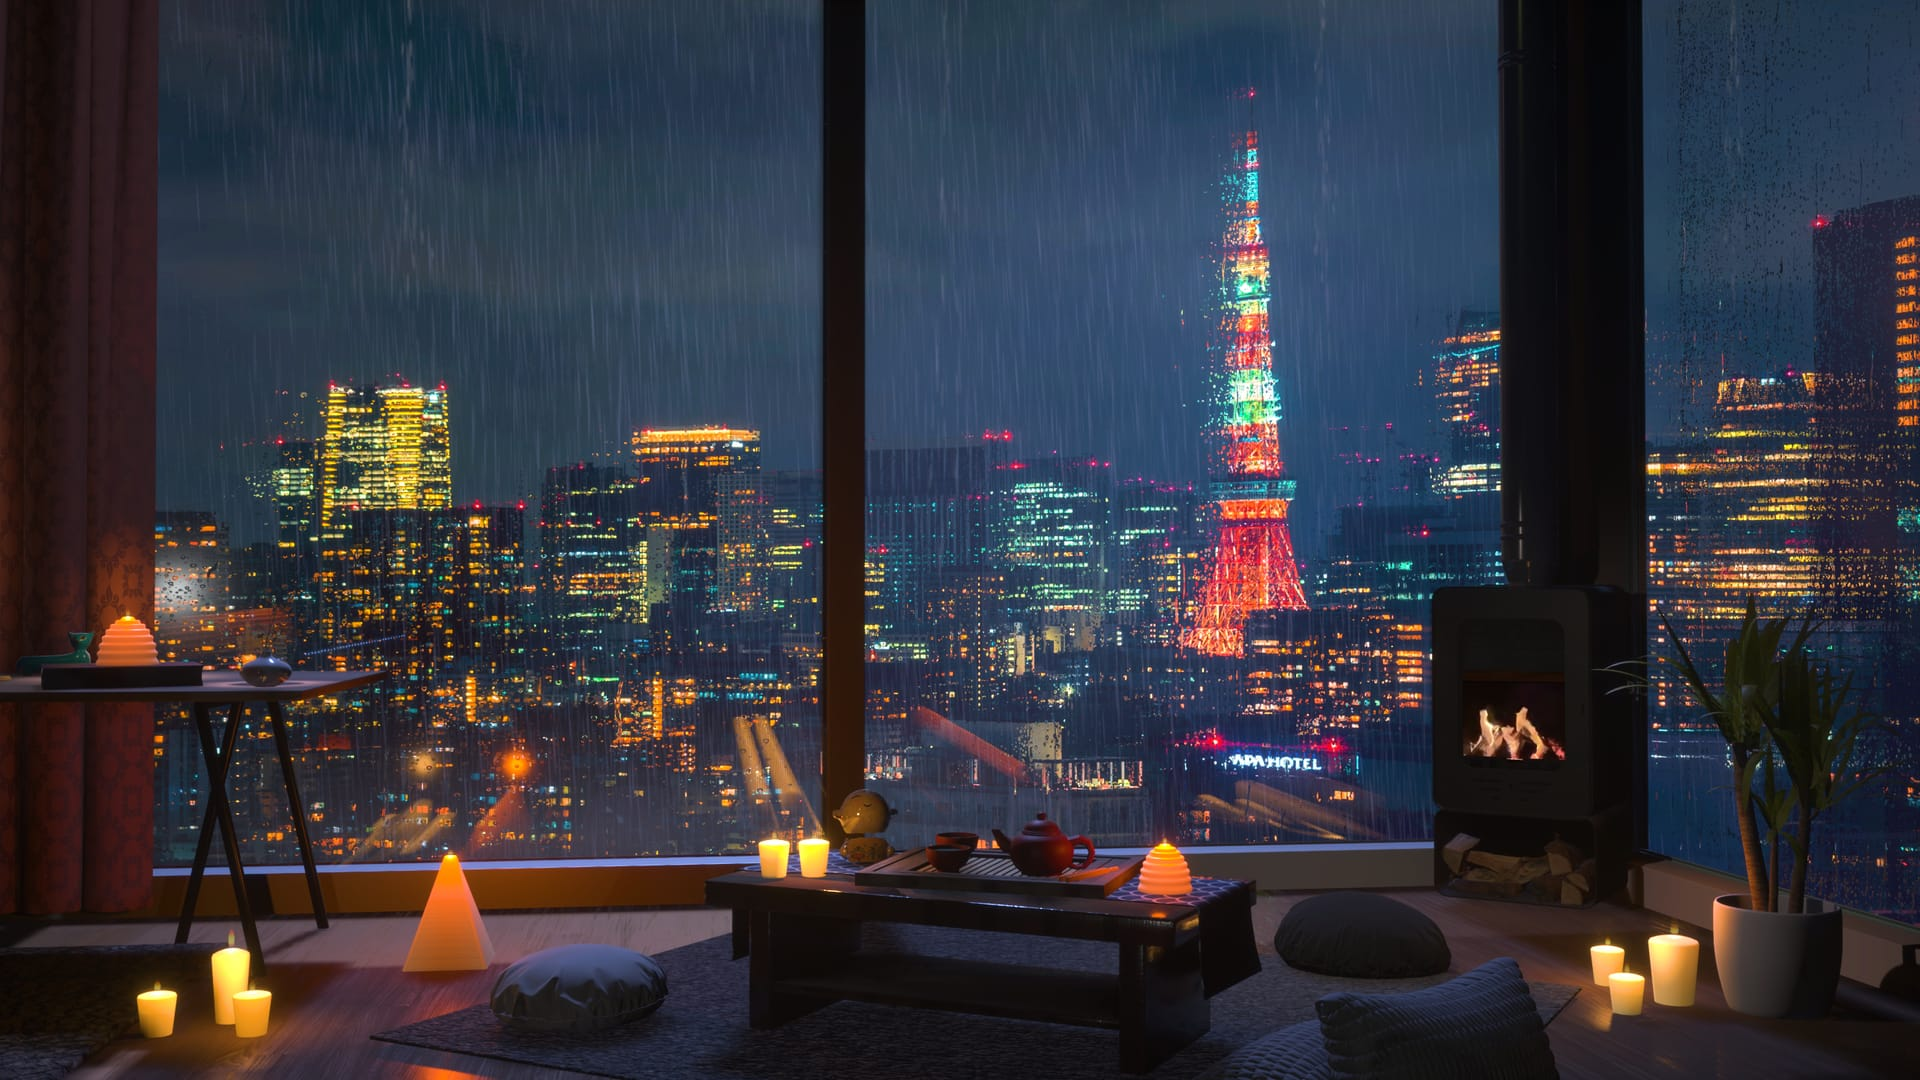
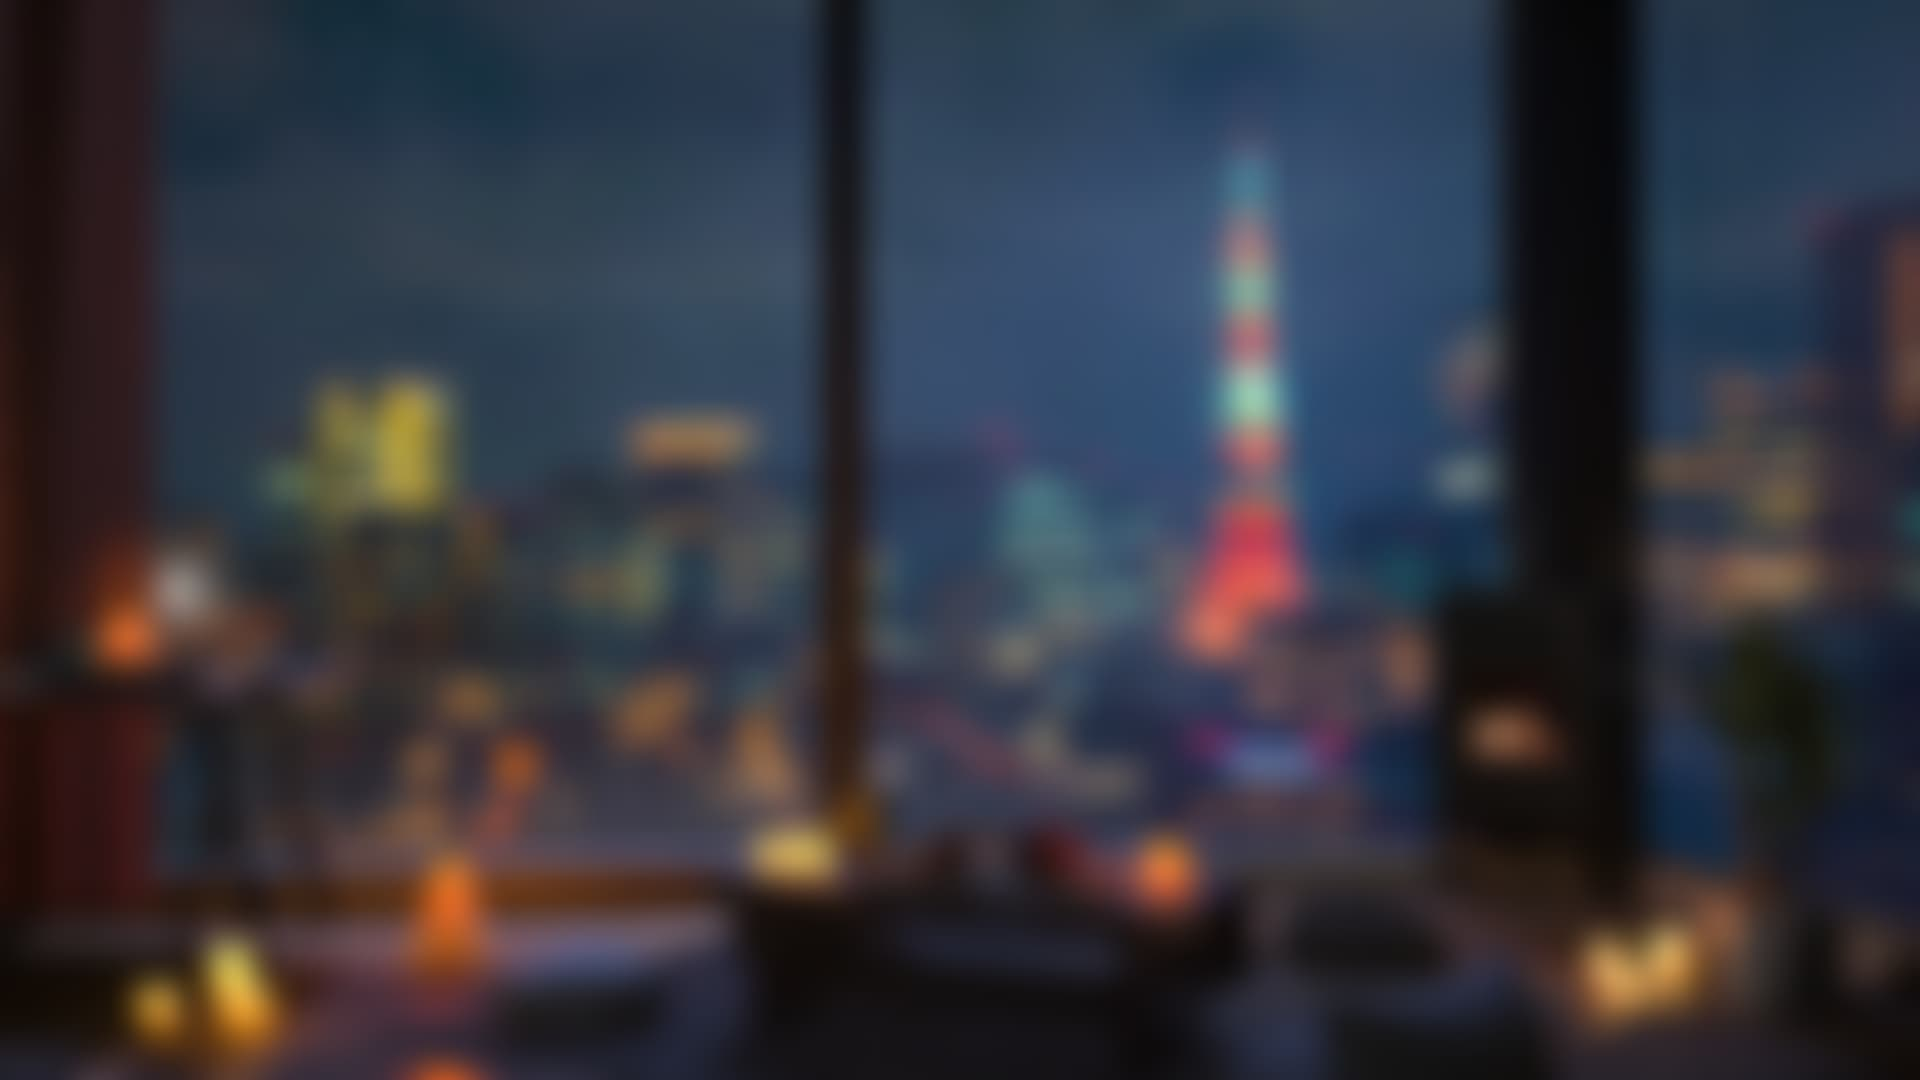
Green theme, blurred glass backdrop, taller hero, basic HCI features
- Swapped purple accent for green (#15803d light / #4ade80 dark).
- Background photo now has a real gaussian blur baked in (via sharp)
  instead of just a tint, for a proper soft glassmorphism backdrop
  (4.1MB source -> 41KB blurred export).
- Hero is now ~85vh with centered content and a scroll-down cue, so
  reaching About requires a deliberate scroll instead of an ambiguous
  half-screen gap.
- HCI additions: skip-to-content link, visible focus rings on all
  interactive elements, prefers-reduced-motion support (disables
  animations/smooth-scroll), active-page highlighting in the nav,
  a back-to-top button, and lazy-loaded below-the-fold images.

Claude-Session: https://claude.ai/code/session_01DdJw52qzg3nKqqam81cDhy

diff --git a/src/components/Nav.tsx b/src/components/Nav.tsx
@@ -1,4 +1,7 @@
+"use client";
+
 import Link from "next/link";
+import { usePathname } from "next/navigation";
 
 const links = [
   { href: "/#about", label: "About" },
@@ -10,6 +13,8 @@ const links = [
 ];
 
 export default function Nav() {
+  const pathname = usePathname();
+
   return (
     <header className="glass sticky top-0 z-50 border-b">
       <nav className="mx-auto flex max-w-4xl flex-wrap items-center justify-between gap-3 px-6 py-4">
@@ -17,13 +22,22 @@ export default function Nav() {
           Portfolio
         </Link>
         <ul className="flex flex-wrap gap-x-5 gap-y-2 text-sm font-medium text-zinc-600 dark:text-zinc-400">
-          {links.map((link) => (
-            <li key={link.href}>
-              <Link href={link.href} className="transition-colors hover:text-accent">
-                {link.label}
-              </Link>
-            </li>
-          ))}
+          {links.map((link) => {
+            const isActive = link.href.startsWith("/projects") && pathname === link.href;
+            return (
+              <li key={link.href}>
+                <Link
+                  href={link.href}
+                  aria-current={isActive ? "page" : undefined}
+                  className={`transition-colors hover:text-accent ${
+                    isActive ? "font-semibold text-accent" : ""
+                  }`}
+                >
+                  {link.label}
+                </Link>
+              </li>
+            );
+          })}
         </ul>
       </nav>
     </header>

diff --git a/src/app/globals.css b/src/app/globals.css
@@ -3,8 +3,8 @@
 :root {
   --background: #fafaf9;
   --foreground: #18181b;
-  --accent: #6d28d9;
-  --accent-soft: #ede9fe;
+  --accent: #15803d;
+  --accent-soft: #dcfce7;
   --card: rgba(255, 255, 255, 0.55);
   --card-strong: rgba(255, 255, 255, 0.75);
   --border: rgba(24, 24, 27, 0.12);
@@ -27,8 +27,8 @@
   :root {
     --background: #0a0a0b;
     --foreground: #f4f4f5;
-    --accent: #a78bfa;
-    --accent-soft: rgba(167, 139, 250, 0.16);
+    --accent: #4ade80;
+    --accent-soft: rgba(74, 222, 128, 0.16);
     --card: rgba(19, 19, 22, 0.45);
     --card-strong: rgba(19, 19, 22, 0.7);
     --border: rgba(244, 244, 245, 0.12);
@@ -75,4 +75,42 @@ body {
 
 .animate-fade-up {
   animation: fade-up 0.6s ease-out both;
+}
+
+@media (prefers-reduced-motion: reduce) {
+  html {
+    scroll-behavior: auto;
+  }
+  *,
+  *::before,
+  *::after {
+    animation-duration: 0.01ms !important;
+    animation-iteration-count: 1 !important;
+    transition-duration: 0.01ms !important;
+    scroll-behavior: auto !important;
+  }
+}
+
+:focus-visible {
+  outline: 2px solid var(--accent);
+  outline-offset: 2px;
+  border-radius: 4px;
+}
+
+.skip-link {
+  position: fixed;
+  top: -100%;
+  left: 1rem;
+  z-index: 100;
+  background: var(--accent);
+  color: #ffffff;
+  padding: 0.6rem 1rem;
+  border-radius: 0.5rem;
+  font-size: 0.875rem;
+  font-weight: 600;
+  transition: top 0.2s ease;
+}
+
+.skip-link:focus {
+  top: 1rem;
 }

diff --git a/src/components/BackToTop.tsx b/src/components/BackToTop.tsx
@@ -1,0 +1,40 @@
+"use client";
+
+import { useEffect, useState } from "react";
+
+export default function BackToTop() {
+  const [visible, setVisible] = useState(false);
+
+  useEffect(() => {
+    const onScroll = () => setVisible(window.scrollY > 500);
+    onScroll();
+    window.addEventListener("scroll", onScroll, { passive: true });
+    return () => window.removeEventListener("scroll", onScroll);
+  }, []);
+
+  const handleClick = () => {
+    const reduceMotion = window.matchMedia("(prefers-reduced-motion: reduce)").matches;
+    window.scrollTo({ top: 0, behavior: reduceMotion ? "auto" : "smooth" });
+  };
+
+  return (
+    <button
+      type="button"
+      onClick={handleClick}
+      aria-label="Back to top"
+      className={`glass fixed right-5 bottom-5 z-50 flex h-11 w-11 items-center justify-center rounded-full text-accent shadow-lg transition-all hover:-translate-y-0.5 ${
+        visible ? "opacity-100" : "pointer-events-none opacity-0"
+      }`}
+    >
+      <svg viewBox="0 0 24 24" fill="none" className="h-5 w-5">
+        <path
+          d="M12 19V5M12 5l-6 6M12 5l6 6"
+          stroke="currentColor"
+          strokeWidth="2"
+          strokeLinecap="round"
+          strokeLinejoin="round"
+        />
+      </svg>
+    </button>
+  );
+}

diff --git a/src/components/Hero.tsx b/src/components/Hero.tsx
@@ -2,7 +2,7 @@ import { profile } from "@/data/content";
 
 export default function Hero() {
   return (
-    <section className="flex flex-col items-start gap-5 py-24">
+    <section className="relative flex min-h-[calc(85vh-5rem)] flex-col items-start justify-center gap-5 py-12">
       {profile.avatarUrl && (
         <img
           src={profile.avatarUrl}
@@ -42,6 +42,21 @@ export default function Hero() {
       >
         {profile.tagline}
       </p>
+      <a
+        href="#about"
+        aria-label="Scroll to About section"
+        className="absolute bottom-2 left-1/2 hidden -translate-x-1/2 animate-bounce text-zinc-400 hover:text-accent sm:block"
+      >
+        <svg viewBox="0 0 24 24" fill="none" className="h-6 w-6">
+          <path
+            d="M6 9l6 6 6-6"
+            stroke="currentColor"
+            strokeWidth="2"
+            strokeLinecap="round"
+            strokeLinejoin="round"
+          />
+        </svg>
+      </a>
     </section>
   );
 }

diff --git a/src/app/layout.tsx b/src/app/layout.tsx
@@ -3,6 +3,7 @@ import { Geist, Geist_Mono } from "next/font/google";
 import "./globals.css";
 import Nav from "@/components/Nav";
 import Footer from "@/components/Footer";
+import BackToTop from "@/components/BackToTop";
 import { images } from "@/data/content";
 
 const geistSans = Geist({
@@ -33,9 +34,13 @@ export default function RootLayout({ children }: LayoutProps<"/">) {
           backgroundImage: `linear-gradient(var(--overlay), var(--overlay)), url(${images.background})`,
         }}
       >
+        <a href="#main-content" className="skip-link">
+          Skip to content
+        </a>
         <Nav />
         {children}
         <Footer />
+        <BackToTop />
       </body>
     </html>
   );

diff --git a/src/app/projects/mechatronics/page.tsx b/src/app/projects/mechatronics/page.tsx
@@ -10,7 +10,7 @@ export const metadata: Metadata = {
 export default function MechatronicsProjectsPage() {
   const mechProjects = projects.filter((p) => p.category === "mechatronics");
   return (
-    <main className="mx-auto w-full max-w-4xl flex-1 px-6">
+    <main id="main-content" className="mx-auto w-full max-w-4xl flex-1 px-6">
       <ProjectsPageHero
         title={projectCategories.mechatronics.label}
         subtitle="Robotics, embedded systems, and applied ML from my Bachelor's in Mechatronics Engineering"

diff --git a/src/app/projects/cs/page.tsx b/src/app/projects/cs/page.tsx
@@ -10,7 +10,7 @@ export const metadata: Metadata = {
 export default function CsProjectsPage() {
   const csProjects = projects.filter((p) => p.category === "cs");
   return (
-    <main className="mx-auto w-full max-w-4xl flex-1 px-6">
+    <main id="main-content" className="mx-auto w-full max-w-4xl flex-1 px-6">
       <ProjectsPageHero
         title={projectCategories.cs.label}
         subtitle="Coursework and independent projects from my Master's in Computer Science"

diff --git a/src/components/DegreeExplorer.tsx b/src/components/DegreeExplorer.tsx
@@ -29,6 +29,7 @@ export default function DegreeExplorer() {
             <img
               src={card.image}
               alt={card.title}
+              loading="lazy"
               className="absolute inset-0 h-full w-full object-cover transition-transform duration-500 group-hover:scale-105"
             />
             <div className="absolute inset-0 bg-gradient-to-t from-black/80 via-black/30 to-transparent" />

diff --git a/src/app/page.tsx b/src/app/page.tsx
@@ -8,7 +8,7 @@ import Contact from "@/components/Contact";
 
 export default function Home() {
   return (
-    <main className="mx-auto w-full max-w-4xl flex-1 px-6">
+    <main id="main-content" className="mx-auto w-full max-w-4xl flex-1 px-6">
       <Hero />
       <About />
       <DegreeExplorer />

diff --git a/src/components/ProjectCard.tsx b/src/components/ProjectCard.tsx
@@ -7,6 +7,7 @@ export default function ProjectCard({ project }: { project: Project }) {
         <img
           src={project.image}
           alt={project.title}
+          loading="lazy"
           className="h-40 w-full object-cover"
         />
       )}
